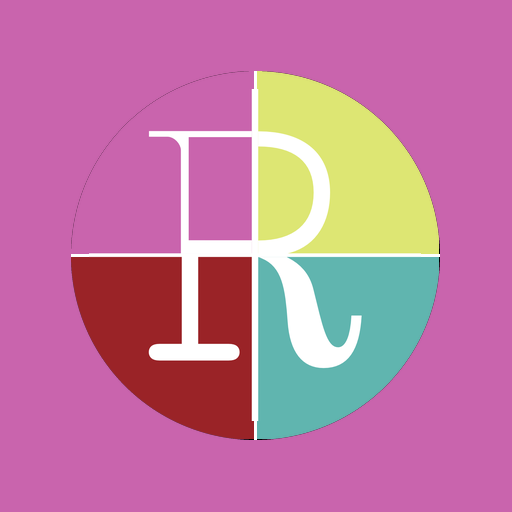
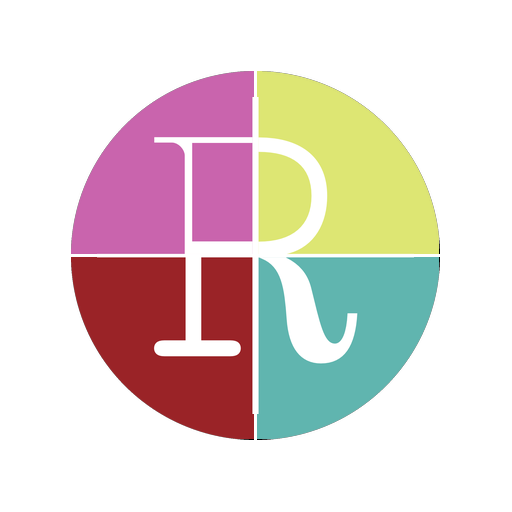
El icono de iOS sobre blanco, y decir el motivo real cuando no se publica
Dos cosas distintas.

En el iPhone el icono salia sobre un cuadrado negro. Safari no admite
transparencia en el apple-touch-icon y rellena de negro lo que no tiene
color; el nuestro era el circulo recortado sobre alfa. Ahora ese y el
maskable de Android van sobre blanco -los dos sistemas exigen opacidad y
rellenan por su cuenta si uno no lo hace-, y el favicon y los del
manifiesto siguen transparentes, que es donde el circulo flotando se ve
como debe.

Y el aviso de "no se publico ninguna nota" decia "lo mas probable es que
no se consiguiera foto". La primera vez que salto, el motivo era otro: la
cuenta de la API se habia quedado sin saldo. Un diagnostico fijo que
adivina manda a buscar donde no es, asi que ahora el mensaje lleva el
error real de cada nota.

diff --git a/herramientas/preparar_marca.py b/herramientas/preparar_marca.py
@@ -142,21 +142,36 @@ def main() -> int:
 
     # 0.14 dentro del circulo deja respirar la R sin que el dibujo se vea
     # perdido en el medio.
-    for px, nombre in [(512, "icono-512.png"), (192, "icono-192.png"),
-                       (180, "icono-180.png")]:
+    #
+    # Estos van CON transparencia: es el circulo flotando, que es como debe
+    # verse en la pestana del navegador y en el manifiesto.
+    for px, nombre in [(512, "icono-512.png"), (192, "icono-192.png")]:
         icono(px, 0.14).save(DEST / nombre, "PNG", optimize=True)
-        print(f"  {nombre:<24} {px}x{px}  circular")
+        print(f"  {nombre:<24} {px}x{px}  circular, transparente")
 
-    # El maskable no lleva transparencia -Android rellena, y lo transparente
-    # sale negro- y ademas el sistema vuelve a recortar por su cuenta, asi
-    # que la marca va mas adentro todavia.
-    px = 512
-    plano = Image.new("RGB", (px, px), colores[0])
-    disp = round(px * 0.72)
-    chico = icono(disp, 0.10)
-    plano.paste(chico.convert("RGB"), ((px - disp) // 2, (px - disp) // 2), chico.split()[3])
-    plano.save(DEST / "icono-maskable-512.png", "PNG", optimize=True)
-    print(f"  {'icono-maskable-512.png':<24} {px}x{px}  con margen de seguridad")
+    def sobre_blanco(im: Image.Image, px: int, encoge: float = 0.0) -> Image.Image:
+        """Pega el circulo sobre blanco, sin alfa."""
+        lienzo = Image.new("RGB", (px, px), "white")
+        if encoge:
+            d = round(px * (1 - encoge))
+            chico = icono(d, 0.14)
+            lienzo.paste(chico.convert("RGB"), ((px - d) // 2, (px - d) // 2),
+                         chico.split()[3])
+        else:
+            lienzo.paste(im.convert("RGB"), (0, 0), im.split()[3])
+        return lienzo
+
+    # iOS: Safari NO admite transparencia en el apple-touch-icon y rellena
+    # de negro. Por eso este va sobre blanco. El sistema le pone encima su
+    # propio redondeado.
+    sobre_blanco(icono(180, 0.14), 180).save(DEST / "icono-180.png", "PNG", optimize=True)
+    print(f"  {'icono-180.png':<24} 180x180  sobre blanco (iOS no acepta alfa)")
+
+    # Android recorta el maskable por su cuenta en circulo o squircle, asi
+    # que la marca va mas adentro y el fondo tiene que ser opaco: lo
+    # transparente tambien le sale negro.
+    sobre_blanco(None, 512, 0.28).save(DEST / "icono-maskable-512.png", "PNG", optimize=True)
+    print(f"  {'icono-maskable-512.png':<24} 512x512  sobre blanco, con margen")
     return 0
 
 

diff --git a/pipeline/propios.py b/pipeline/propios.py
@@ -369,11 +369,13 @@ def run(n: int = 1) -> list[Path]:
     escritos: list[Path] = []
 
     pedidos = pendientes()[:n]
+    motivos: list[str] = []
     for tema in pedidos:
         try:
             art = escribir(tema, cfg, directorio)
         except Exception as exc:  # noqa: BLE001 — que falle una no tumba el resto
             log.error("Falló la nota '%s': %s", tema["slug"], exc)
+            motivos.append(f"{tema['slug']}: {exc}")
             continue
 
         # Foto: de Openverse, que filtra por licencia comercial y de
@@ -401,6 +403,7 @@ def run(n: int = 1) -> list[Path]:
 
         if not art.image_url:
             log.warning("Sin foto publicable, no se publica: %s", tema["slug"])
+            motivos.append(f"{tema['slug']}: no se consiguio foto publicable")
             continue
 
         ARTICLES_DIR.mkdir(parents=True, exist_ok=True)
@@ -416,9 +419,13 @@ def run(n: int = 1) -> list[Path]:
     # del workflow terminaba en verde y la revista se quedaba sin publicar
     # sin que nadie lo notara durante dias.
     if pedidos and not escritos:
+        # El motivo va en el mensaje, no una conjetura. La primera vez que
+        # esto salto, el aviso decia "lo mas probable es que no se
+        # consiguiera foto" y en realidad la cuenta de la API se habia
+        # quedado sin saldo: mando a buscar donde no era.
+        detalle = "\n  - " + "\n  - ".join(motivos) if motivos else ""
         raise RuntimeError(
-            f"Se intentaron {len(pedidos)} notas y no se publico ninguna. "
-            "Revise los avisos de arriba: lo mas probable es que no se "
-            "consiguiera foto para ninguna.")
+            f"Se intentaron {len(pedidos)} notas y no se publico ninguna."
+            + detalle)
 
     return escritos
